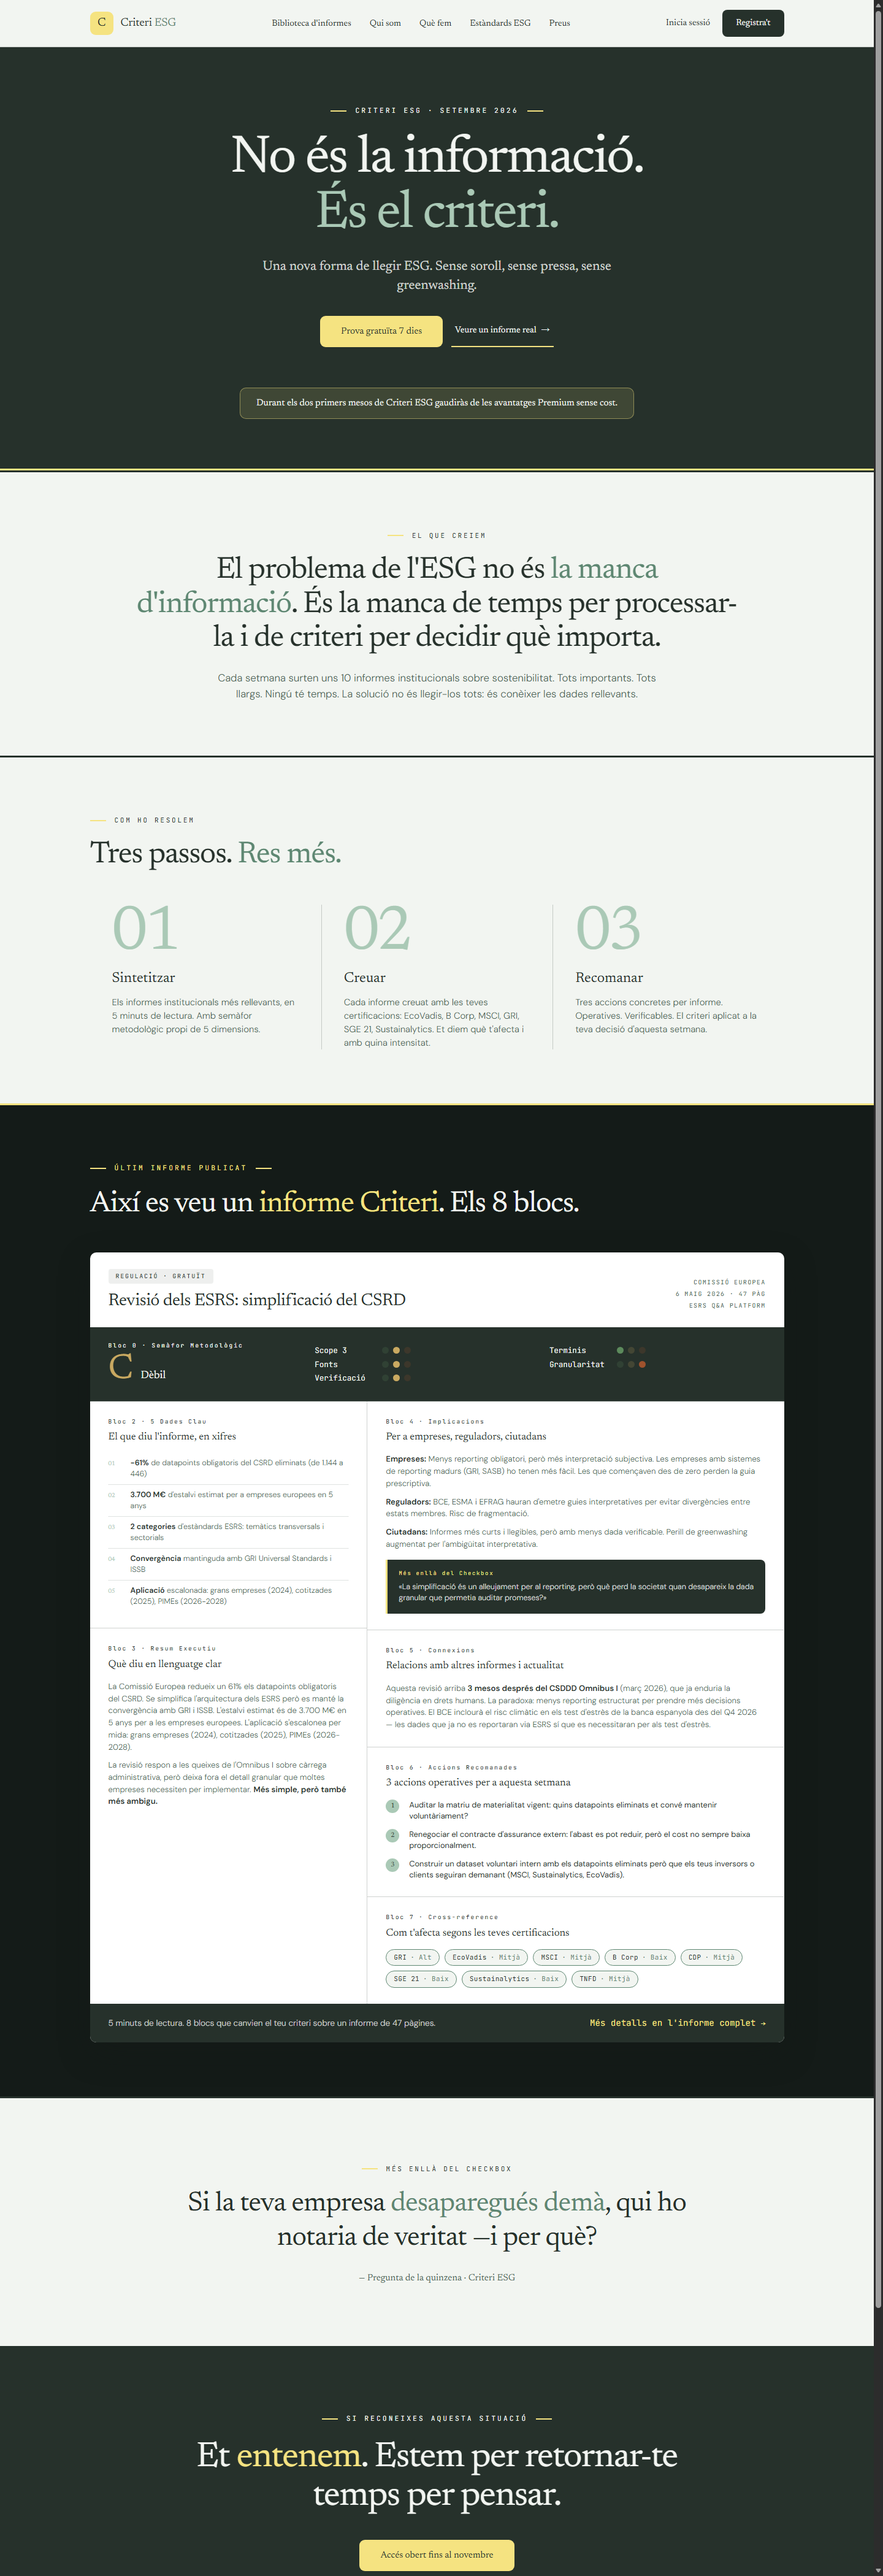
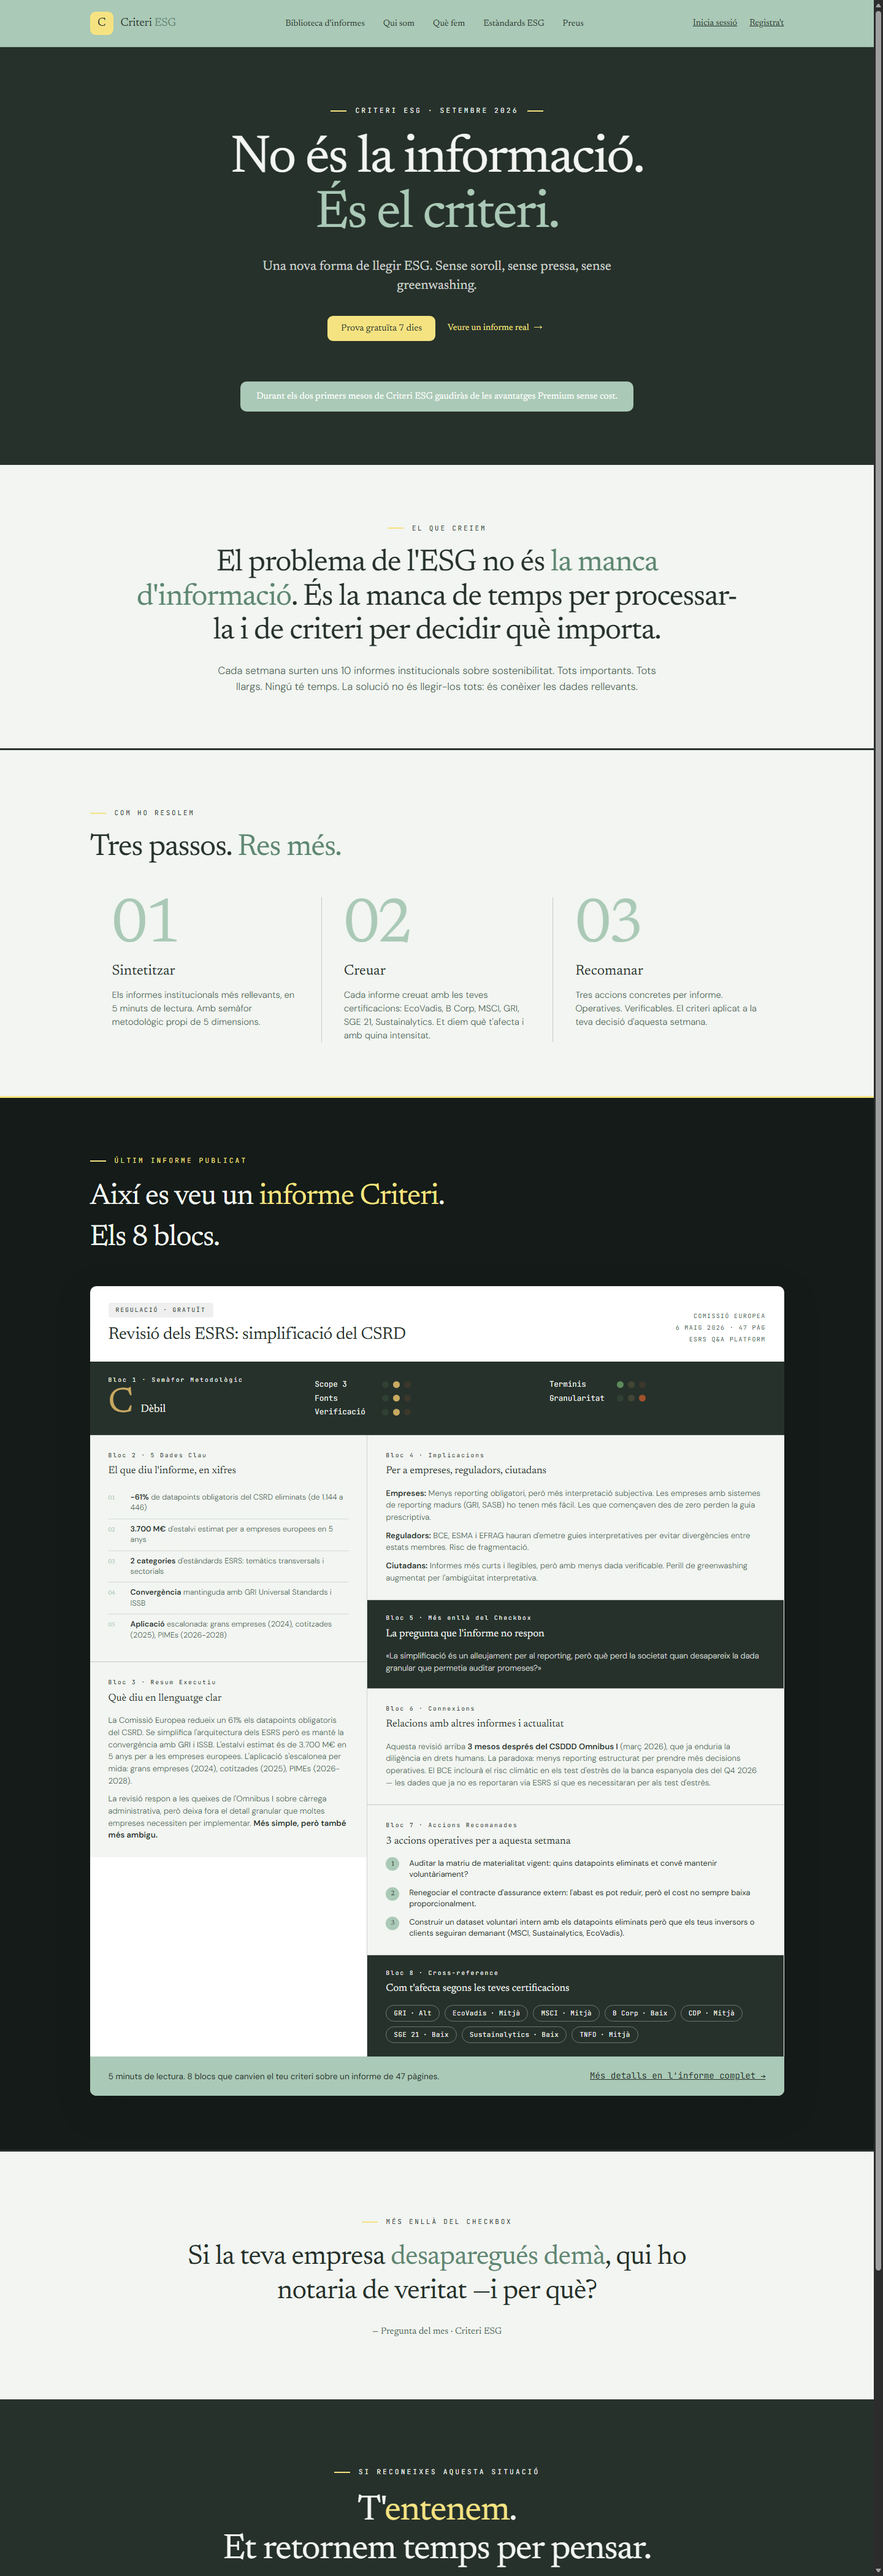
style: salvia v10 - header verd clar, titols centrats amb franja davant, blocs 1-8 amb 5 i 8 foscos, paper-foot verd clar, textos i CTA

diff --git a/assets/redisseny-web/mockup-homepage-paleta-salvia.html b/assets/redisseny-web/mockup-homepage-paleta-salvia.html
@@ -68,7 +68,7 @@
 
   /* ============ HEADER ============ */
   header.site {
-    background: var(--bg);
+    background: var(--verd-clar);
     border-bottom: 1px solid var(--line);
     position: sticky; top: 0; z-index: 50;
   }
@@ -93,7 +93,7 @@
   }
   .nav-links a:hover { border-color: var(--highlight); }
   .nav-actions { display: flex; align-items: center; gap: 20px; }
-  .nav-actions .login { color: var(--ink); text-decoration: none; font-size: 0.9rem; font-weight: 400; }
+  .nav-actions .login { color: var(--ink); text-decoration: underline; font-size: 0.9rem; font-weight: 400; }
   .btn {
     display: inline-flex; align-items: center; justify-content: center; gap: 8px;
     font-family: var(--font-display); font-weight: 400; font-size: 0.9rem;
@@ -101,7 +101,7 @@
     transition: transform .12s ease, opacity .15s;
   }
   .btn:hover { transform: translateY(-1px); opacity: .92; }
-  .btn-primary { background: var(--ink); color: var(--bg); padding: 12px 22px; border-radius: 8px; }
+  .btn-primary { background: transparent; color: var(--ink); padding: 0; border-radius: 0; text-decoration: underline; }
   .btn-ghost { background: transparent; color: var(--ink); padding: 10px 4px; border-radius: 8px; }
   .btn-ghost .arrow { color: var(--accent); }
   .btn-bright { background: var(--highlight); color: var(--ink); padding: 15px 34px; border-radius: 9px; font-size: 0.95rem; }
@@ -117,6 +117,7 @@
   }
   .hero::after {
     content: ""; position: absolute; inset: auto 0 0 0; height: 3px; background: var(--highlight);
+    display: none;
   }
   .hero .wrap { display: flex; flex-direction: column; align-items: center; gap: 26px; }
   .eyebrow {
@@ -137,13 +138,13 @@
   }
   .hero .cta-row { display: flex; flex-wrap: wrap; justify-content: center; gap: 14px; margin-top: 8px; }
   .hero .btn-light { background: var(--highlight); color: var(--ink); padding: 15px 34px; border-radius: 9px; font-size: 0.95rem; }
-  .hero .btn-line { background: transparent; color: var(--bg); padding: 14px 6px; border-bottom: 2px solid var(--highlight); border-radius: 0; font-weight: 400; }
+  .hero .btn-line { background: transparent; color: var(--highlight); padding: 14px 6px; border-bottom: none; border-radius: 0; font-weight: 400; }
   .banner {
     margin-top: 40px; padding: 14px 26px;
-    background: rgba(245, 227, 129, 0.12);
-    border: 1px solid rgba(245, 227, 129, 0.45);
+    background: var(--verd-clar);
+    border: none;
     border-radius: var(--radius);
-    font-size: 0.95rem; font-weight: 400; color: var(--bg);
+    font-size: 0.95rem; font-weight: 400; color: #FFFFFF;
   }
 
   /* ============ SECCIONS GENERIQUES ============ */
@@ -164,6 +165,16 @@
   }
   h2.sec-title .hl { color: var(--accent); }
   .sec-body { max-width: 720px; font-weight: 300; font-size: 1.05rem; color: var(--ink-soft); line-height: 1.55; margin-top: 22px; }
+
+  /* Títols de secció centrats amb franja groga només davant, al centre de les lletres */
+  .manifest .eyebrow-dark,
+  .teses .eyebrow-dark,
+  .informe .eyebrow,
+  .cta-final .eyebrow {
+    justify-content: center;
+  }
+  .informe .eyebrow::after,
+  .cta-final .eyebrow::after { display: none; }
 
   /* Manifest centrat */
   .manifest { text-align: center; }
@@ -238,13 +249,26 @@
 
   .paper-body { display: grid; grid-template-columns: minmax(0, 1fr) minmax(0, 1.5fr); }
   .col-left { border-right: 1px solid var(--line); }
-  .bloc { padding: 26px 30px; border-bottom: 1px solid var(--line); }
+  .bloc { padding: 26px 30px; border-bottom: 1px solid var(--line); background: var(--bg); }
   .bloc:last-child { border-bottom: none; }
   .bloc-num { font-size: 0.6rem; font-weight: 400; letter-spacing: 0.2em; color: var(--ink); }
   .bloc h4 { font-size: 1.05rem; font-weight: 400; margin: 8px 0 14px; color: var(--ink); }
   .bloc p { font-size: 0.82rem; font-weight: 300; color: var(--ink-soft); line-height: 1.5; }
   .bloc p + p { margin-top: 10px; }
   .bloc p strong { color: var(--ink); font-weight: 600; }
+
+  /* Blocs tractats com el semàfor (fons fosc, text clar, mateixa mida) */
+  .bloc-fosc {
+    background: var(--ink); color: var(--bg);
+    padding: 22px 30px;
+    border-bottom: 1px solid rgba(242, 245, 241, 0.2);
+  }
+  .bloc-fosc .bloc-num { color: var(--bg); }
+  .bloc-fosc h4 { color: var(--bg); }
+  .bloc-fosc p { color: rgba(242, 245, 241, 0.85); }
+  .bloc-fosc p strong { color: var(--bg); }
+  .bloc-fosc .chip { background: transparent; border-color: rgba(242, 245, 241, 0.35); color: var(--bg); }
+  .bloc-fosc .chip span { color: var(--bg); }
 
   .dades { display: flex; flex-direction: column; }
   .dada { display: grid; grid-template-columns: 26px 1fr; gap: 10px; padding: 8px 0; border-bottom: 1px dotted rgba(74, 95, 83, 0.35); align-items: baseline; }
@@ -279,12 +303,12 @@
   .chip span { color: var(--accent); font-weight: 400; margin-left: 6px; }
 
   .paper-foot {
-    background: var(--ink); color: var(--bg);
+    background: var(--verd-clar); color: var(--ink);
     display: flex; align-items: center; justify-content: space-between; gap: 20px;
     padding: 22px 30px;
   }
-  .paper-foot p { font-size: 0.85rem; font-weight: 300; color: rgba(238,238,238,.85); }
-  .paper-foot a { color: var(--highlight); font-weight: 400; font-size: 0.88rem; text-decoration: none; white-space: nowrap; }
+  .paper-foot p { font-size: 0.85rem; font-weight: 400; color: var(--ink); }
+  .paper-foot a { color: var(--ink); font-weight: 400; font-size: 0.88rem; text-decoration: underline; white-space: nowrap; }
   .paper-foot a:hover { text-decoration: underline; }
 
   /* ============ CITA ============ */
@@ -304,6 +328,10 @@
   .cta-final h2 .hl { color: var(--highlight); }
   .cta-final .btn-bright { margin-top: 30px; }
   .cta-final .note { margin-top: 18px; font-size: 0.9rem; font-weight: 400; color: rgba(238,238,238,.65); }
+  /* CTA més petits, mateixa mida de lletra */
+  .btn-bright { padding: 10px 22px; }
+  .hero .btn-light { padding: 10px 22px; }
+  .hero .btn-line { padding: 10px 6px; }
 
   /* ============ FOOTER ============ */
   footer.site { background: var(--ink-deep); color: var(--bg); padding: 56px 0 40px; }
@@ -378,7 +406,7 @@
 </section>
 
 <!-- ============ 3 TESES ============ -->
-<section class="block light">
+<section class="block light teses">
   <div class="wrap">
     <span class="eyebrow-dark">Com ho resolem</span>
     <h2 class="sec-title">Tres passos. <span class="hl">Res més.</span></h2>
@@ -406,7 +434,7 @@
 <section class="informe">
   <div class="wrap">
     <span class="eyebrow">Últim informe publicat</span>
-    <h2>Així es veu un <span class="hl">informe Criteri</span>. Els 8 blocs.</h2>
+    <h2>Així es veu un <span class="hl">informe Criteri</span>.<br>Els 8 blocs.</h2>
 
     <div class="paper">
       <!-- Capçalera -->
@@ -418,10 +446,10 @@
         <div class="paper-meta">Comissió Europea<br>6 maig 2026 · 47 pàg<br>ESRS Q&amp;A Platform</div>
       </div>
 
-      <!-- Bloc 0: Semàfor -->
+      <!-- Bloc 1: Semàfor -->
       <div class="semafor">
         <div>
-          <div class="label">Bloc 0 · Semàfor Metodològic</div>
+          <div class="label">Bloc 1 · Semàfor Metodològic</div>
           <div class="grade-row">
             <span class="grade">C</span>
             <span class="grade-label">Dèbil</span>
@@ -466,18 +494,19 @@
             <p><strong>Empreses:</strong> Menys reporting obligatori, però més interpretació subjectiva. Les empreses amb sistemes de reporting madurs (GRI, SASB) ho tenen més fàcil. Les que començaven des de zero perden la guia prescriptiva.</p>
             <p><strong>Reguladors:</strong> BCE, ESMA i EFRAG hauran d'emetre guies interpretatives per evitar divergències entre estats membres. Risc de fragmentació.</p>
             <p><strong>Ciutadans:</strong> Informes més curts i llegibles, però amb menys dada verificable. Perill de greenwashing augmentat per l'ambigüitat interpretativa.</p>
-            <div class="quote-box">
-              <div class="qlabel">Més enllà del Checkbox</div>
-              <p>«La simplificació és un alleujament per al reporting, però què perd la societat quan desapareix la dada granular que permetia auditar promeses?»</p>
-            </div>
+          </div>
+          <div class="bloc bloc-fosc">
+            <div class="bloc-num">Bloc 5 · Més enllà del Checkbox</div>
+            <h4>La pregunta que l'informe no respon</h4>
+            <p>«La simplificació és un alleujament per al reporting, però què perd la societat quan desapareix la dada granular que permetia auditar promeses?»</p>
           </div>
           <div class="bloc">
-            <div class="bloc-num">Bloc 5 · Connexions</div>
+            <div class="bloc-num">Bloc 6 · Connexions</div>
             <h4>Relacions amb altres informes i actualitat</h4>
             <p>Aquesta revisió arriba <strong>3 mesos després del CSDDD Omnibus I</strong> (març 2026), que ja enduria la diligència en drets humans. La paradoxa: menys reporting estructurat per prendre més decisions operatives. El BCE inclourà el risc climàtic en els test d'estrès de la banca espanyola des del Q4 2026 — les dades que ja no es reportaran via ESRS sí que es necessitaran per als test d'estrès.</p>
           </div>
           <div class="bloc">
-            <div class="bloc-num">Bloc 6 · Accions Recomanades</div>
+            <div class="bloc-num">Bloc 7 · Accions Recomanades</div>
             <h4>3 accions operatives per a aquesta setmana</h4>
             <div class="accions">
               <div class="accio"><span class="cnum">1</span><span class="t">Auditar la matriu de materialitat vigent: quins datapoints eliminats et convé mantenir voluntàriament?</span></div>
@@ -485,8 +514,8 @@
               <div class="accio"><span class="cnum">3</span><span class="t">Construir un dataset voluntari intern amb els datapoints eliminats però que els teus inversors o clients seguiran demanant (MSCI, Sustainalytics, EcoVadis).</span></div>
             </div>
           </div>
-          <div class="bloc">
-            <div class="bloc-num">Bloc 7 · Cross-reference</div>
+          <div class="bloc bloc-fosc">
+            <div class="bloc-num">Bloc 8 · Cross-reference</div>
             <h4>Com t'afecta segons les teves certificacions</h4>
             <div class="chips">
               <span class="chip">GRI<span>· Alt</span></span>
@@ -516,7 +545,7 @@
   <div class="wrap">
     <span class="eyebrow-dark" style="justify-content:center">Més enllà del Checkbox</span>
     <blockquote>Si la teva empresa <span class="hl">desaparegués demà</span>, qui ho notaria de veritat —i per què?</blockquote>
-    <p class="attr">— Pregunta de la quinzena · Criteri ESG</p>
+    <p class="attr">— Pregunta del mes · Criteri ESG</p>
   </div>
 </section>
 
@@ -524,7 +553,7 @@
 <section class="cta-final">
   <div class="wrap">
     <span class="eyebrow">Si reconeixes aquesta situació</span>
-    <h2>Et <span class="hl">entenem</span>. Estem per retornar-te temps per pensar.</h2>
+    <h2>T'<span class="hl">entenem</span>.<br>Et retornem temps per pensar.</h2>
     <a class="btn btn-bright" href="#">Accés obert fins al novembre</a>
     <p class="note">Sense targeta de crèdit. Sense paywall fins al novembre.</p>
   </div>
